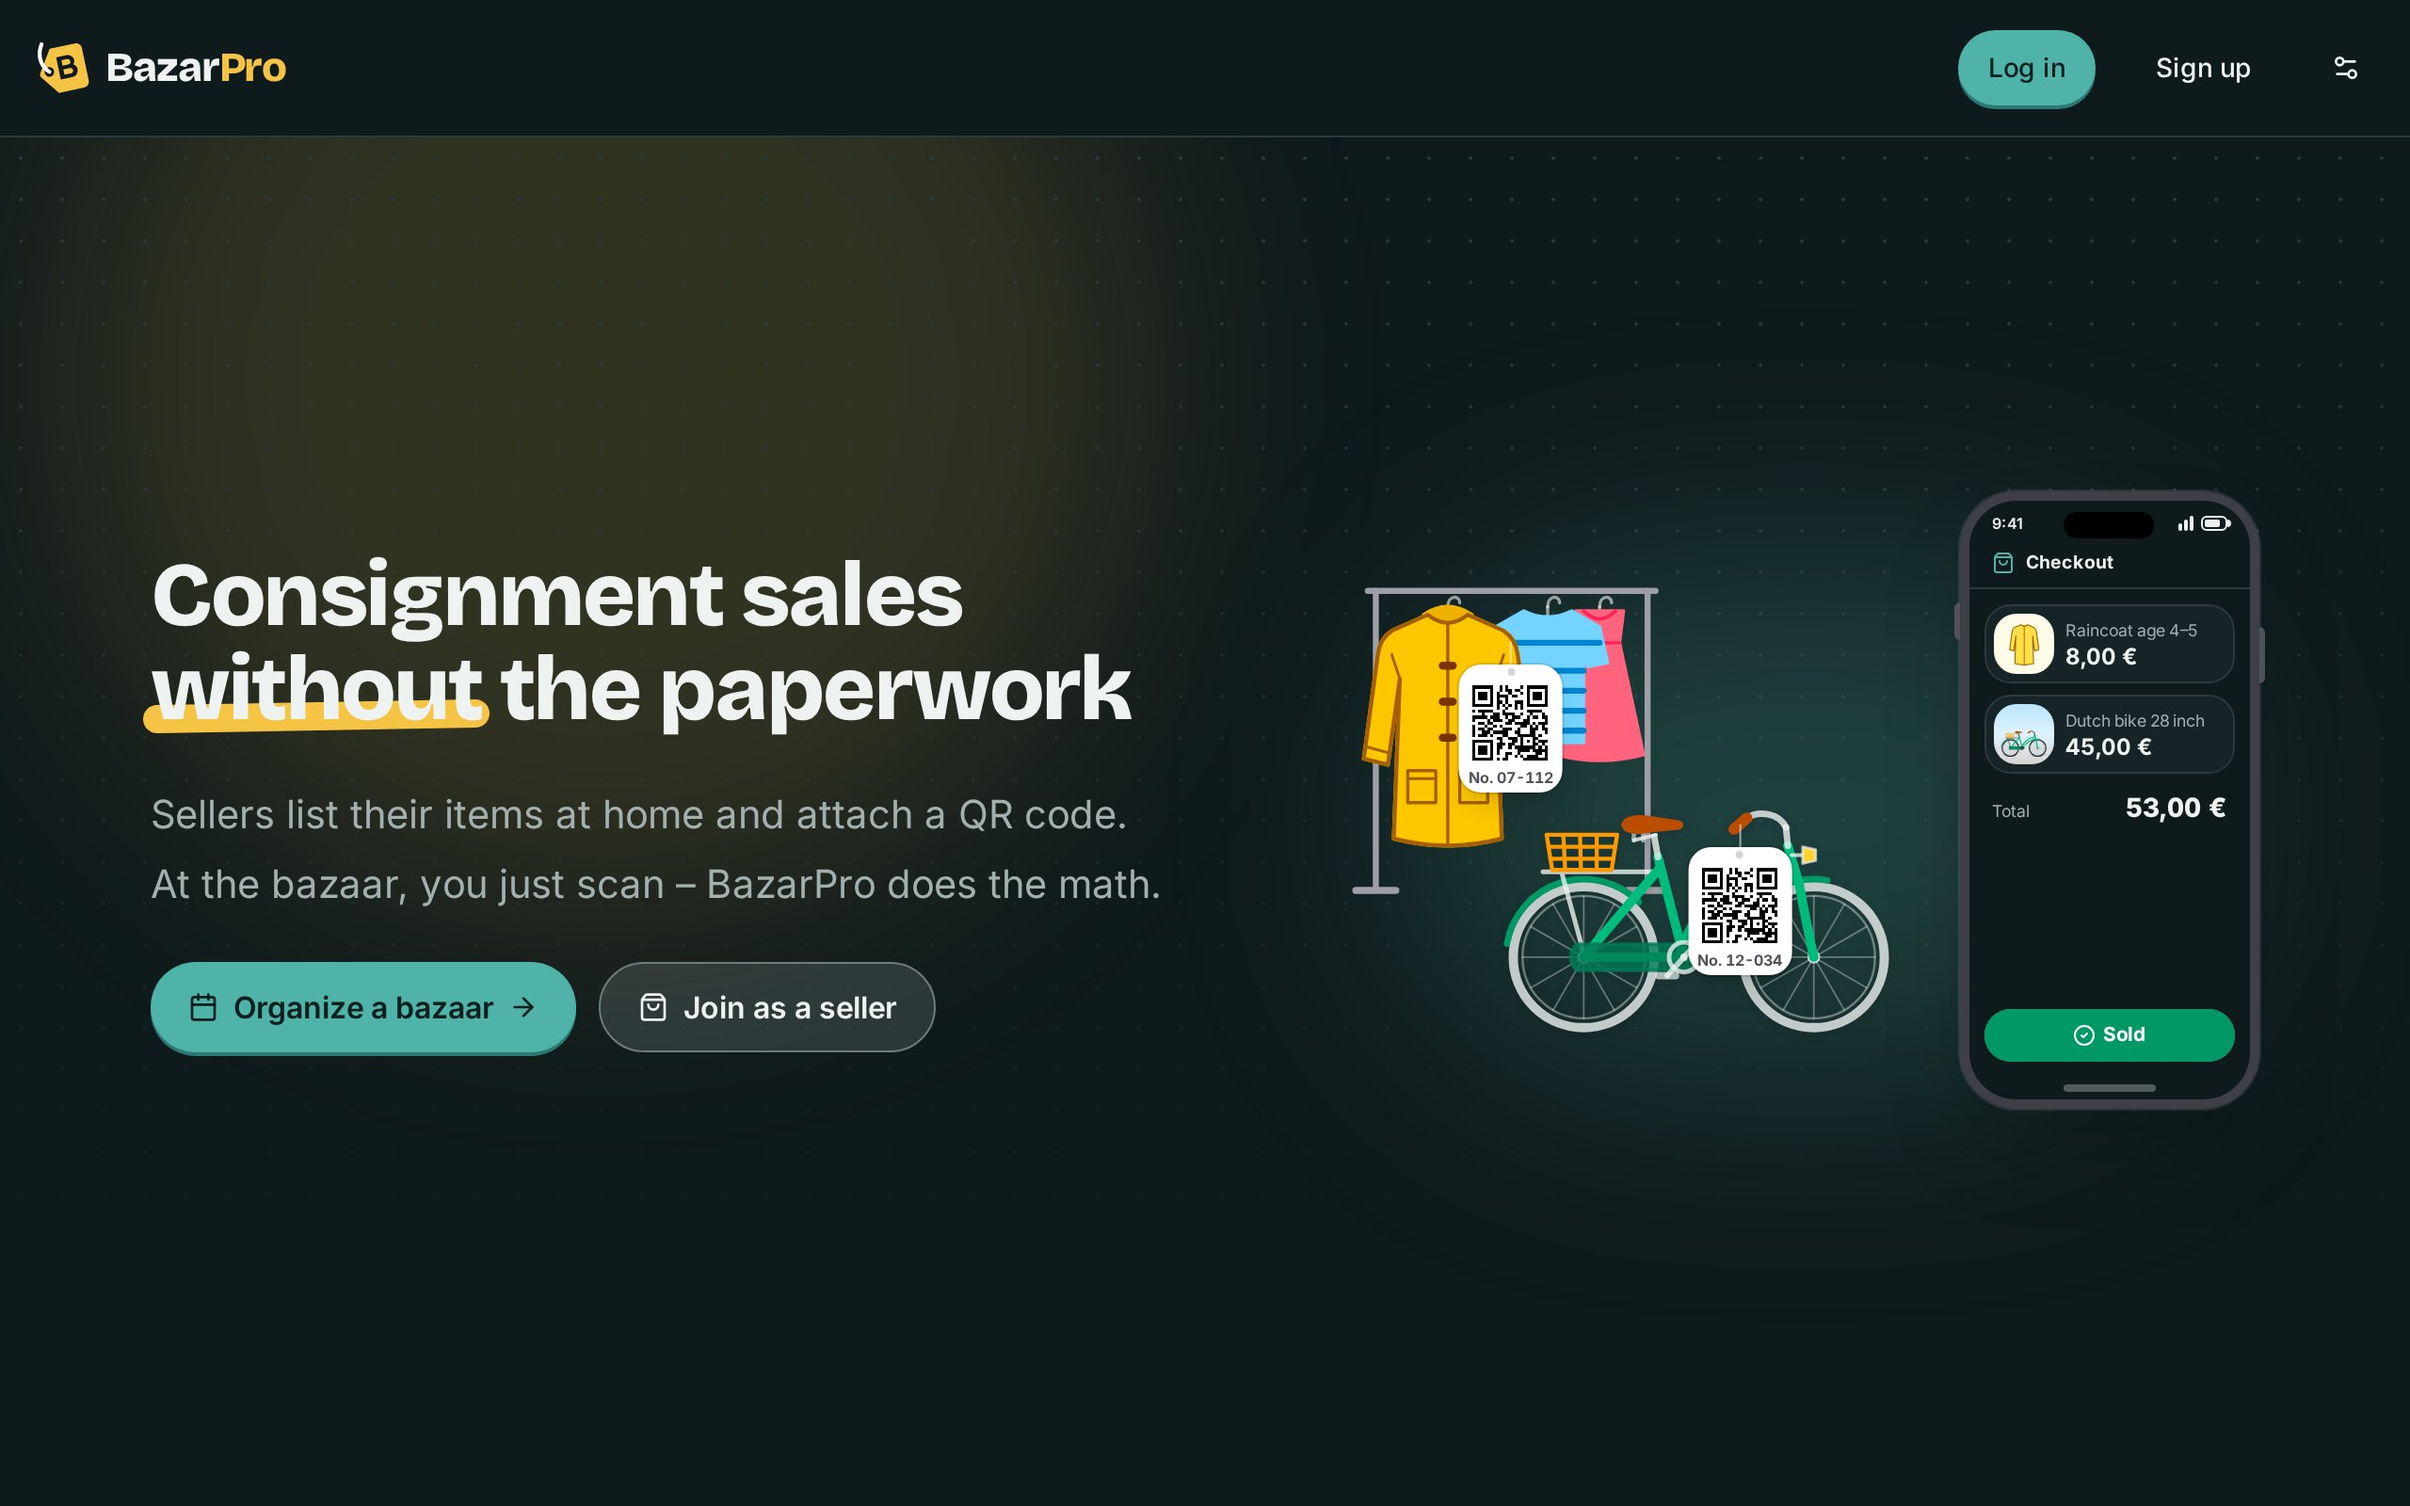
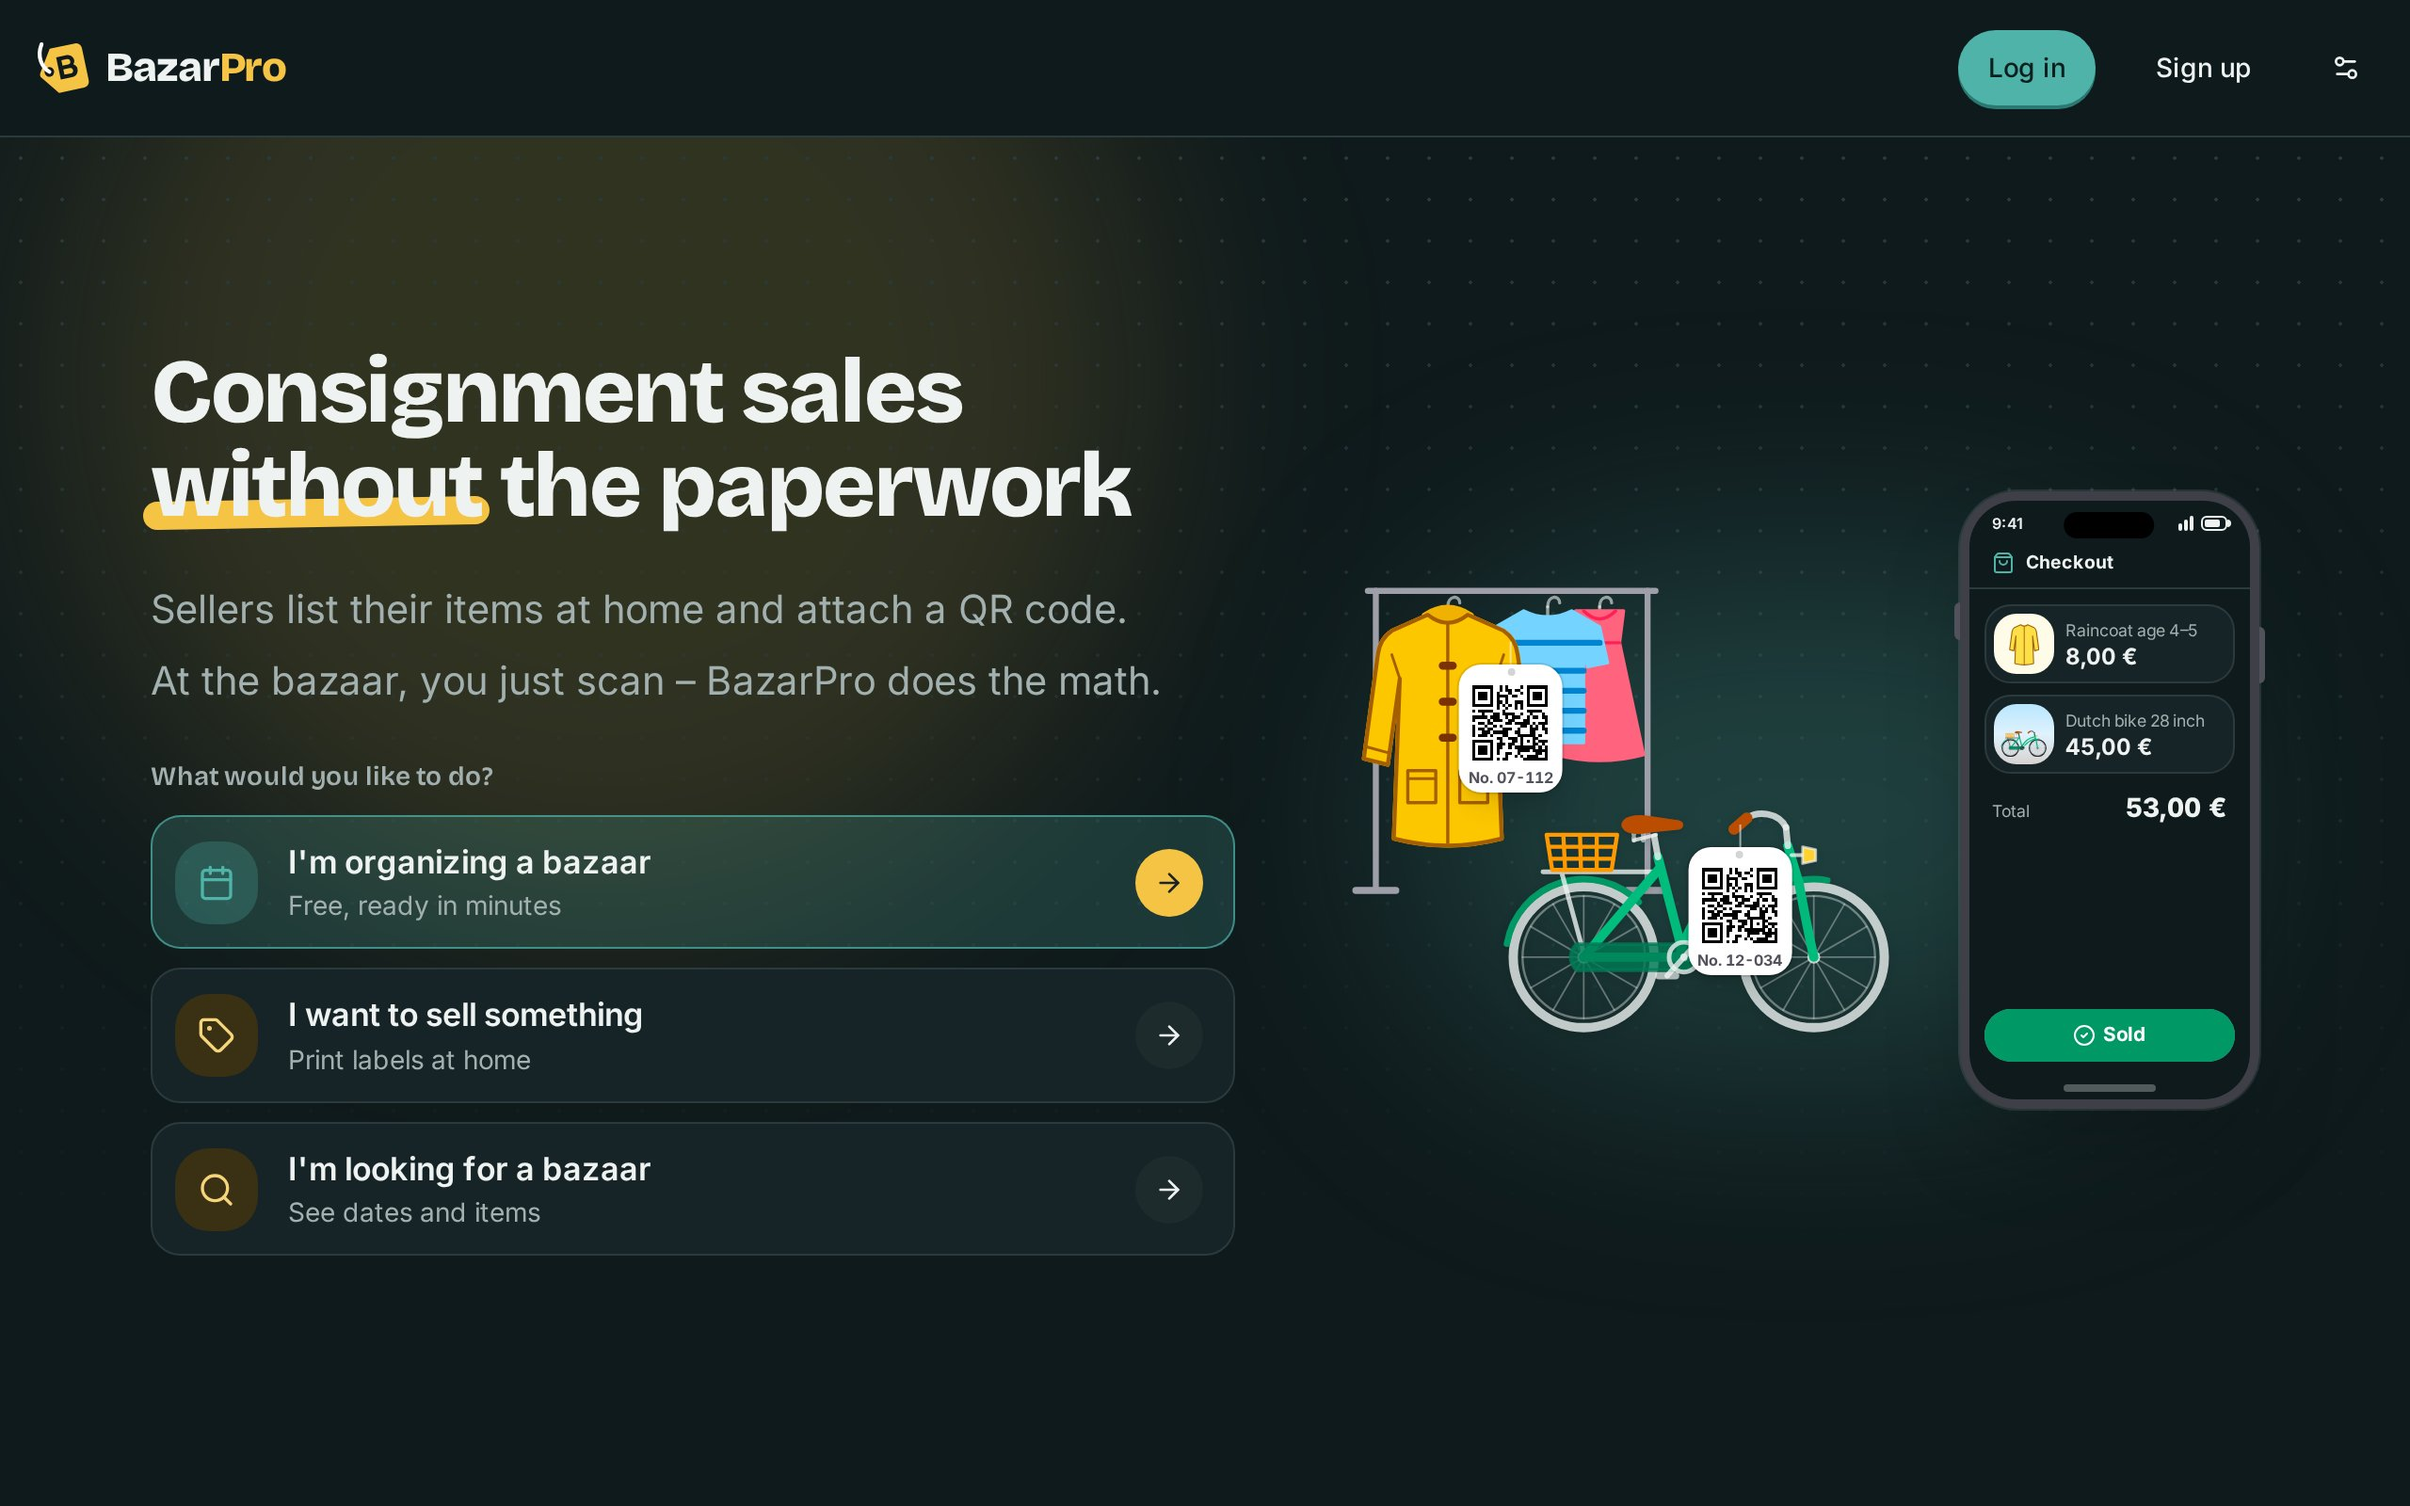
feat(landing): "What would you like to do?" – one way in per intention
Two buttons for organizers and sellers left buyers out and made visitors
guess. Now three cards in the visitor's words, each with a short line on what
follows:

- I'm organizing a bazaar (petrol, the main way in)
- I want to sell something
- I'm looking for a bazaar: scrolls to the list of bazaars and moves the
  focus there; without smooth scrolling under prefers-reduced-motion

Signed in, the first two lead to "My events" and "My items" as before. The
cards form a labelled group and keep a visible focus ring with an offset; in
the dark theme the main card is a petrol tint instead of a bright block.

Changed region(s): [[0.0625, 0.2188, 0.5312, 0.7188], [0.0625, 0.75, 0.2812, 0.8438]]

diff --git a/src/pages/public/landing/components/LandingHero.tsx b/src/pages/public/landing/components/LandingHero.tsx
@@ -1,5 +1,5 @@
-import { ArrowRight, Calendar, ShoppingBag } from 'lucide-react';
-import { Button } from '../../../../components/ui/button';
+import { ArrowRight, Calendar, Search, Tag, type LucideIcon } from 'lucide-react';
+import { cn } from '../../../../lib/utils';
 import { HeroSaleScene } from './demo/HeroSaleScene';
 import { useTranslation } from 'react-i18next';
 
@@ -7,12 +7,15 @@ interface LandingHeroProps {
   isAuthenticated: boolean;
   onOrganizerClick: () => void;
   onSellerClick: () => void;
+  /** "I am looking for a bazaar": to the list of bazaars further down */
+  onFindClick: () => void;
 }
 
 export function LandingHero({
   isAuthenticated,
   onOrganizerClick,
   onSellerClick,
+  onFindClick,
 }: LandingHeroProps) {
   const { t } = useTranslation('landing');
   return (
@@ -48,30 +51,103 @@ export function LandingHero({
             </span>
           </p>
 
-          <div className="flex flex-col gap-3 sm:flex-row sm:justify-center lg:justify-start">
-            <Button
-              size="lg"
-              className="group h-12 px-6 text-base font-semibold"
+          {/* One way in per intention, so nobody has to guess which button is theirs */}
+          <div
+            role="group"
+            aria-labelledby="landing-intent"
+            className="mx-auto max-w-xl space-y-2.5 text-left lg:mx-0"
+          >
+            <p
+              id="landing-intent"
+              className="text-center font-display text-sm font-semibold text-muted-foreground lg:text-left"
+            >
+              {t('intent.ask')}
+            </p>
+            <IntentCard
+              icon={Calendar}
+              title={isAuthenticated ? t('actions.myEvents') : t('intent.organize')}
+              text={isAuthenticated ? t('intent.organizeSignedIn') : t('intent.organizeText')}
               onClick={onOrganizerClick}
-            >
-              <Calendar className="mr-2 h-5 w-5" />
-              {isAuthenticated ? t('actions.myEvents') : t('actions.organize')}
-              <ArrowRight className="ml-2 h-4 w-4 transition-transform group-hover:translate-x-1" />
-            </Button>
-            <Button
-              size="lg"
-              variant="outline"
-              className="h-12 bg-background/80 px-6 text-base font-semibold"
+              primary
+            />
+            <IntentCard
+              icon={Tag}
+              title={isAuthenticated ? t('actions.myProducts') : t('intent.sell')}
+              text={isAuthenticated ? t('intent.sellSignedIn') : t('intent.sellText')}
               onClick={onSellerClick}
-            >
-              <ShoppingBag className="mr-2 h-5 w-5" />
-              {isAuthenticated ? t('actions.myProducts') : t('actions.joinAsSeller')}
-            </Button>
+            />
+            <IntentCard
+              icon={Search}
+              title={t('intent.find')}
+              text={t('intent.findText')}
+              onClick={onFindClick}
+            />
           </div>
         </div>
 
         <HeroSaleScene />
       </div>
     </section>
+  );
+}
+
+/** A way in: what the visitor wants to do, in their words, with one line on what follows. */
+function IntentCard({
+  icon: Icon,
+  title,
+  text,
+  onClick,
+  primary = false,
+}: {
+  icon: LucideIcon;
+  title: string;
+  text: string;
+  onClick: () => void;
+  primary?: boolean;
+}) {
+  return (
+    <button
+      type="button"
+      onClick={onClick}
+      className={cn(
+        'group flex w-full items-center gap-4 rounded-2xl border p-3 pr-4 text-left transition-colors outline-none focus-visible:ring-[3px] focus-visible:ring-ring focus-visible:ring-offset-2 focus-visible:ring-offset-background',
+        primary
+          ? // Dark theme: a petrol tint, a full light block would glare
+            'border-primary bg-primary text-primary-foreground shadow-[0_3px_0_var(--primary-shade)] hover:bg-primary/90 dark:border-primary/70 dark:bg-primary/20 dark:text-foreground dark:shadow-none dark:hover:bg-primary/30'
+          : 'bg-card hover:bg-accent'
+      )}
+    >
+      <span
+        className={cn(
+          'flex size-11 shrink-0 items-center justify-center rounded-xl',
+          primary
+            ? 'bg-primary-foreground/15 dark:bg-primary/25 dark:text-primary'
+            : 'bg-tag-soft text-tag-soft-foreground'
+        )}
+      >
+        <Icon className="size-5" />
+      </span>
+      <span className="min-w-0 flex-1">
+        <span className="block font-semibold sm:text-[1.0625rem]">{title}</span>
+        <span
+          className={cn(
+            'block text-sm',
+            primary
+              ? 'text-primary-foreground/85 dark:text-muted-foreground'
+              : 'text-muted-foreground'
+          )}
+        >
+          {text}
+        </span>
+      </span>
+      <span
+        className={cn(
+          'flex size-9 shrink-0 items-center justify-center rounded-full transition-transform group-hover:translate-x-0.5',
+          primary ? 'bg-tag text-tag-foreground' : 'bg-muted'
+        )}
+      >
+        <ArrowRight className="size-4" />
+      </span>
+    </button>
   );
 }

diff --git a/src/pages/public/landing/LandingPage.tsx b/src/pages/public/landing/LandingPage.tsx
@@ -36,13 +36,20 @@ export function LandingPage() {
         isAuthenticated={!!isAuthenticated}
         onOrganizerClick={goToOrganizer}
         onSellerClick={goToSeller}
+        onFindClick={() => {
+          // The focus moves along, so keyboard and screen reader users land there too
+          const section = document.getElementById('events-section');
+          const still = window.matchMedia('(prefers-reduced-motion: reduce)').matches;
+          section?.scrollIntoView({ behavior: still ? 'auto' : 'smooth' });
+          section?.focus({ preventScroll: true });
+        }}
       />
 
       <LandingProcess />
 
       <LandingKinds />
 
-      <div id="events-section" className="scroll-mt-16">
+      <div id="events-section" tabIndex={-1} className="scroll-mt-16 outline-none">
         <LandingEventsSection
           events={publicEvents}
           includePast={includePast}
